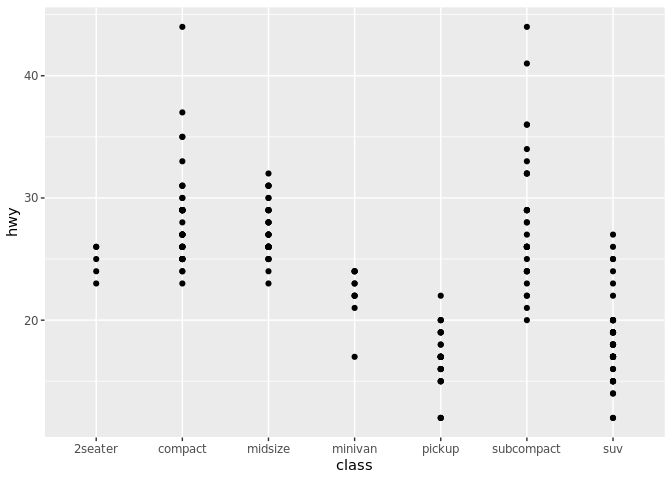
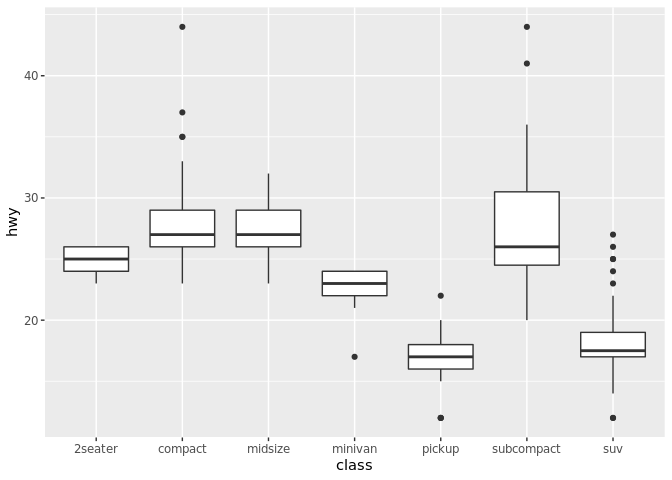
Finished working through the file

diff --git a/Week-4-Visualize-Exercises.md b/Week-4-Visualize-Exercises.md
@@ -9,53 +9,43 @@ Your Turn 0
 Add a setup chunk that loads the tidyverse packages.
 
 ``` r
-library(tidyverse)
+data(mpg)
+summary(mpg)
 ```
 
-    ## Registered S3 method overwritten by 'dplyr':
-    ##   method               from  
-    ##   as.data.frame.tbl_df tibble
-
-    ## Registered S3 methods overwritten by 'ggplot2':
-    ##   method         from 
-    ##   [.quosures     rlang
-    ##   c.quosures     rlang
-    ##   print.quosures rlang
-
-    ## ── Attaching packages ───────────────────────────────────────────────── tidyverse 1.2.1 ──
-
-    ## ✔ ggplot2 3.0.0     ✔ purrr   0.2.5
-    ## ✔ tibble  1.4.2     ✔ dplyr   0.7.6
-    ## ✔ tidyr   0.8.3     ✔ stringr 1.3.1
-    ## ✔ readr   1.1.1     ✔ forcats 0.3.0
-
-    ## ── Conflicts ──────────────────────────────────────────────────── tidyverse_conflicts() ──
-    ## ✖ dplyr::filter() masks stats::filter()
-    ## ✖ dplyr::lag()    masks stats::lag()
-
-``` r
-mpg
-```
-
-    ## # A tibble: 234 x 11
-    ##    manufacturer model displ  year   cyl trans drv     cty   hwy fl    cla…
-    ##    <chr>        <chr> <dbl> <int> <int> <chr> <chr> <int> <int> <chr> <ch>
-    ##  1 audi         a4      1.8  1999     4 auto… f        18    29 p     com…
-    ##  2 audi         a4      1.8  1999     4 manu… f        21    29 p     com…
-    ##  3 audi         a4      2    2008     4 manu… f        20    31 p     com…
-    ##  4 audi         a4      2    2008     4 auto… f        21    30 p     com…
-    ##  5 audi         a4      2.8  1999     6 auto… f        16    26 p     com…
-    ##  6 audi         a4      2.8  1999     6 manu… f        18    26 p     com…
-    ##  7 audi         a4      3.1  2008     6 auto… f        18    27 p     com…
-    ##  8 audi         a4 q…   1.8  1999     4 manu… 4        18    26 p     com…
-    ##  9 audi         a4 q…   1.8  1999     4 auto… 4        16    25 p     com…
-    ## 10 audi         a4 q…   2    2008     4 manu… 4        20    28 p     com…
-    ## # ... with 224 more rows
+     manufacturer          model               displ            year     
+     Length:234         Length:234         Min.   :1.600   Min.   :1999  
+     Class :character   Class :character   1st Qu.:2.400   1st Qu.:1999  
+     Mode  :character   Mode  :character   Median :3.300   Median :2004  
+                                           Mean   :3.472   Mean   :2004  
+                                           3rd Qu.:4.600   3rd Qu.:2008  
+                                           Max.   :7.000   Max.   :2008  
+          cyl           trans               drv                 cty       
+     Min.   :4.000   Length:234         Length:234         Min.   : 9.00  
+     1st Qu.:4.000   Class :character   Class :character   1st Qu.:14.00  
+     Median :6.000   Mode  :character   Mode  :character   Median :17.00  
+     Mean   :5.889                                         Mean   :16.86  
+     3rd Qu.:8.000                                         3rd Qu.:19.00  
+     Max.   :8.000                                         Max.   :35.00  
+          hwy             fl               class          
+     Min.   :12.00   Length:234         Length:234        
+     1st Qu.:18.00   Class :character   Class :character  
+     Median :24.00   Mode  :character   Mode  :character  
+     Mean   :23.44                                        
+     3rd Qu.:27.00                                        
+     Max.   :44.00                                        
 
 Your Turn 1
 -----------
 
 Run the code on the slide to make a graph. Pay strict attention to spelling, capitalization, and parentheses!
+
+``` r
+ggplot(data = mpg) +
+  geom_point(mapping = aes(x = displ, y = hwy))
+```
+
+![](Week-4-Visualize-Exercises_files/figure-markdown_github/unnamed-chunk-2-1.png)
 
 Your Turn 2
 -----------
@@ -64,7 +54,7 @@ Replace this scatterplot with one that draws boxplots. Use the cheatsheet. Try y
 
 ``` r
 ggplot(data = mpg) +
-  geom_point(mapping = aes(x = class, y = hwy))
+  geom_boxplot(mapping = aes(x = class, y = hwy))
 ```
 
 ![](Week-4-Visualize-Exercises_files/figure-markdown_github/unnamed-chunk-3-1.png)
@@ -74,10 +64,27 @@ Your Turn 3
 
 Make a histogram of the `hwy` variable from `mpg`. Hint: do not supply a y variable.
 
+``` r
+ggplot(data = mpg) +
+  geom_histogram(mapping = aes(x = hwy))
+```
+
+    `stat_bin()` using `bins = 30`. Pick better value with `binwidth`.
+
+![](Week-4-Visualize-Exercises_files/figure-markdown_github/unnamed-chunk-4-1.png)
+
 Your Turn 4
 -----------
 
 Use the help page for `geom_histogram` to make the bins 2 units wide.
+
+``` r
+ggplot(data = mpg) +
+  geom_histogram(mapping = aes(x = hwy), 
+                 binwidth = 2)
+```
+
+![](Week-4-Visualize-Exercises_files/figure-markdown_github/unnamed-chunk-5-1.png)
 
 Your Turn 5
 -----------
@@ -85,11 +92,32 @@ Your Turn 5
 Add `color`, `size`, `alpha`, and `shape` aesthetics to your graph. Experiment.
 
 ``` r
-ggplot(data = mpg) +
-  geom_point(mapping = aes(x = displ, y = hwy))
+c <- ggplot(data = mpg, mapping = aes(x = displ, y = hwy))
+
+c + geom_point(mapping = aes(color = class))
 ```
 
 ![](Week-4-Visualize-Exercises_files/figure-markdown_github/unnamed-chunk-6-1.png)
+
+``` r
+c + geom_point(mapping = aes(shape = class, color = class))
+```
+
+    Warning: The shape palette can deal with a maximum of 6 discrete values
+    because more than 6 becomes difficult to discriminate; you have 7.
+    Consider specifying shapes manually if you must have them.
+
+    Warning: Removed 62 rows containing missing values (geom_point).
+
+![](Week-4-Visualize-Exercises_files/figure-markdown_github/unnamed-chunk-6-2.png)
+
+``` r
+c + geom_point(mapping = aes(alpha = class))
+```
+
+    Warning: Using alpha for a discrete variable is not advised.
+
+![](Week-4-Visualize-Exercises_files/figure-markdown_github/unnamed-chunk-6-3.png)
 
 Help Me
 -------
@@ -128,6 +156,13 @@ Your Turn 6
 
 Make a bar chart `class` colored by `class`. Use the help page for `geom_bar` to choose a "color" aesthetic for class.
 
+``` r
+ggplot(data = mpg) +
+  geom_bar(mapping = aes(x = class, color = class))
+```
+
+![](Week-4-Visualize-Exercises_files/figure-markdown_github/unnamed-chunk-8-1.png)
+
 Quiz
 ----
 
@@ -139,7 +174,7 @@ ggplot(mpg) +
   geom_smooth(aes(displ, hwy))
 ```
 
-    ## `geom_smooth()` using method = 'loess' and formula 'y ~ x'
+    `geom_smooth()` using method = 'loess' and formula 'y ~ x'
 
 ![](Week-4-Visualize-Exercises_files/figure-markdown_github/unnamed-chunk-9-1.png)
 
